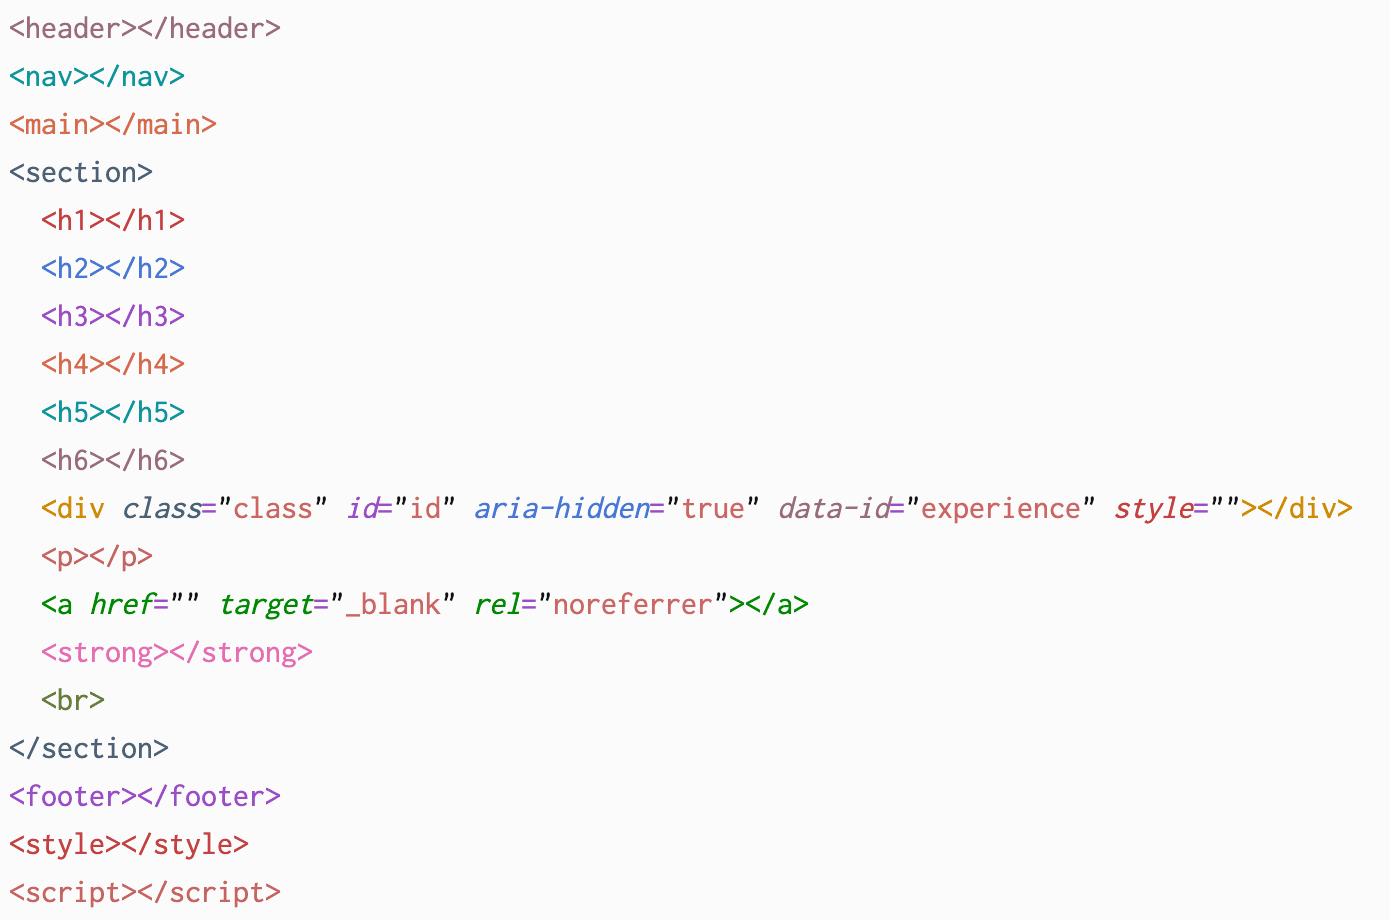
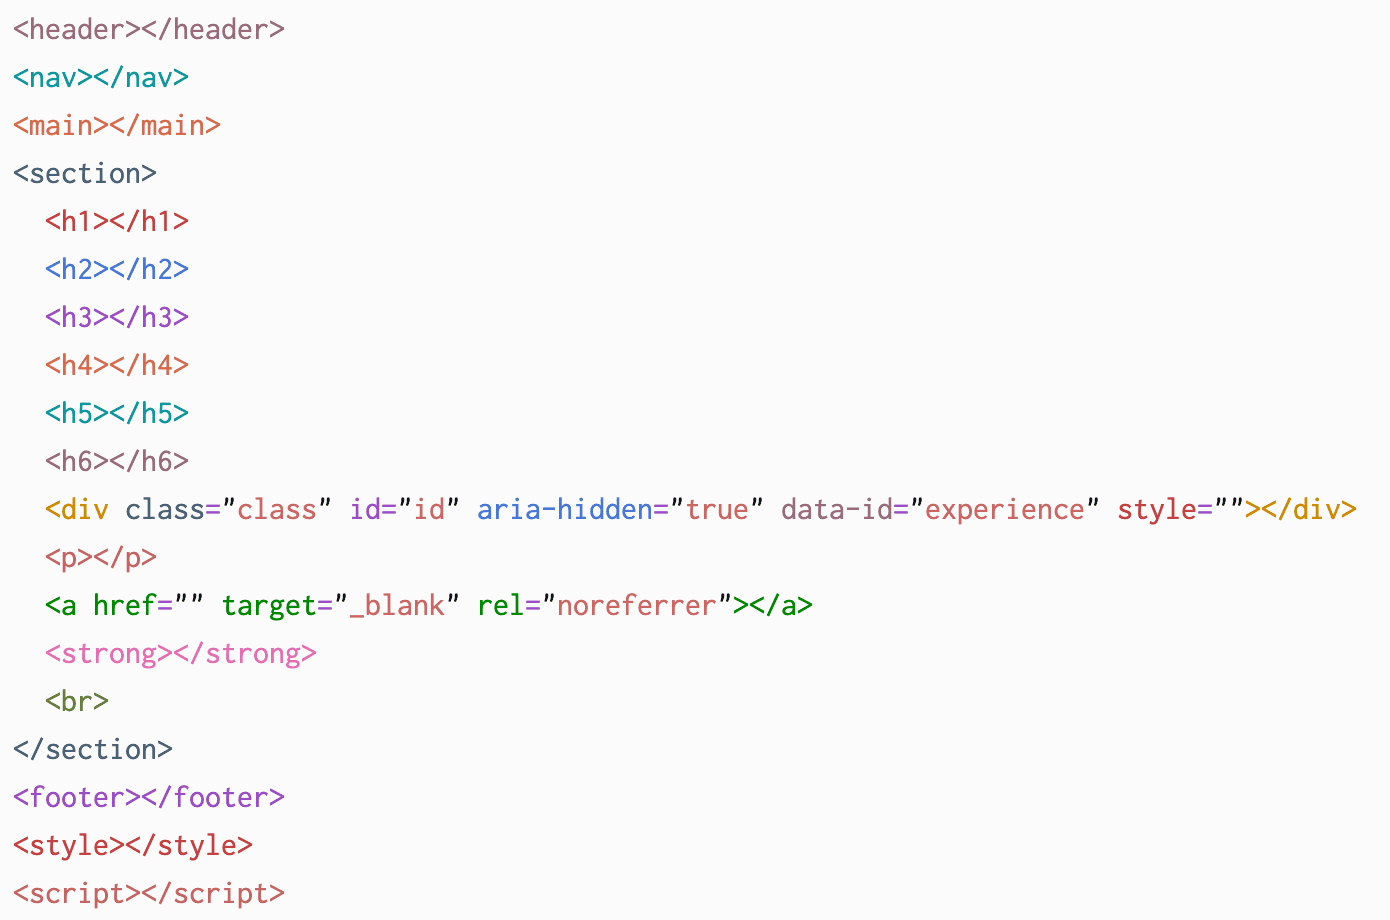
Update v1.0.2:  Replaced `code-light.png` with a new image

diff --git a/CHANGELOG.md b/CHANGELOG.md
@@ -2,7 +2,12 @@
 
 All notable changes to the "night-owl-colorful-html" extension will be documented in this file.
 
-## "1.0.1" - 2023-10-18
+## "1.0.2" - 2023-10-17
+
+### Changed
+- Replaced `code-light.png` with a new image.
+
+## "1.0.1" - 2023-10-17
 
 ### Added
 - Supplemental text in README.
